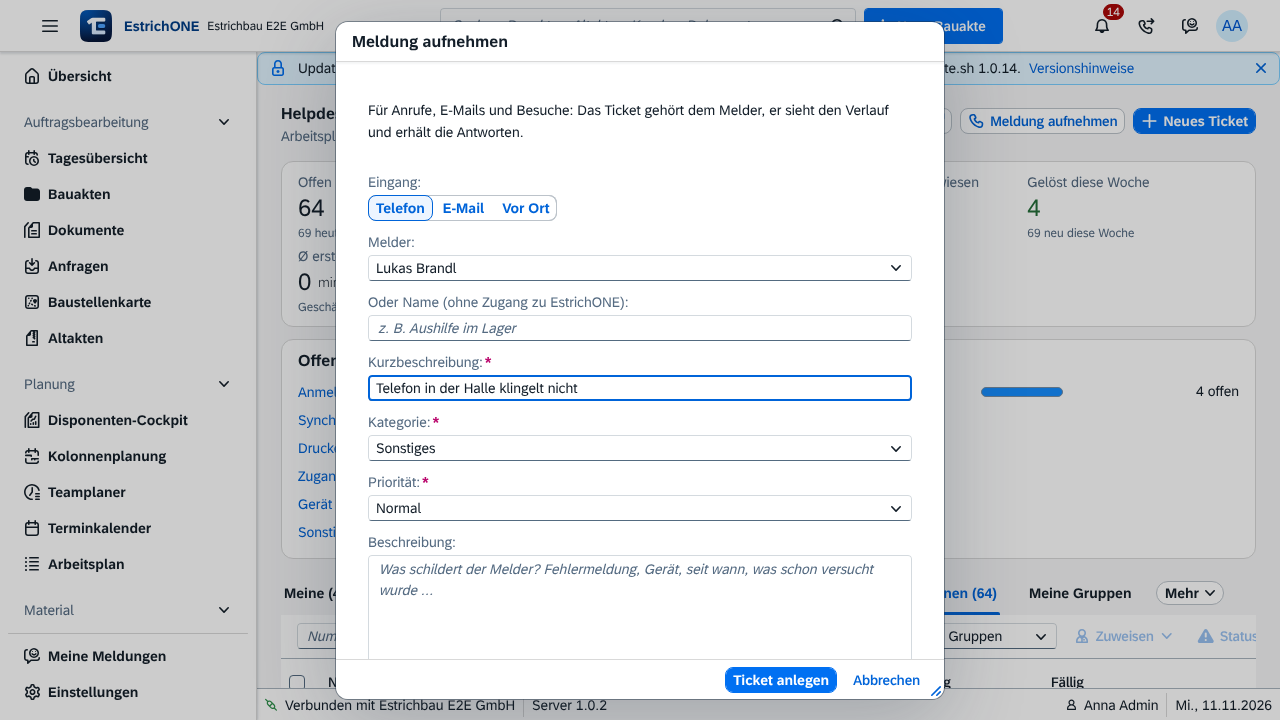
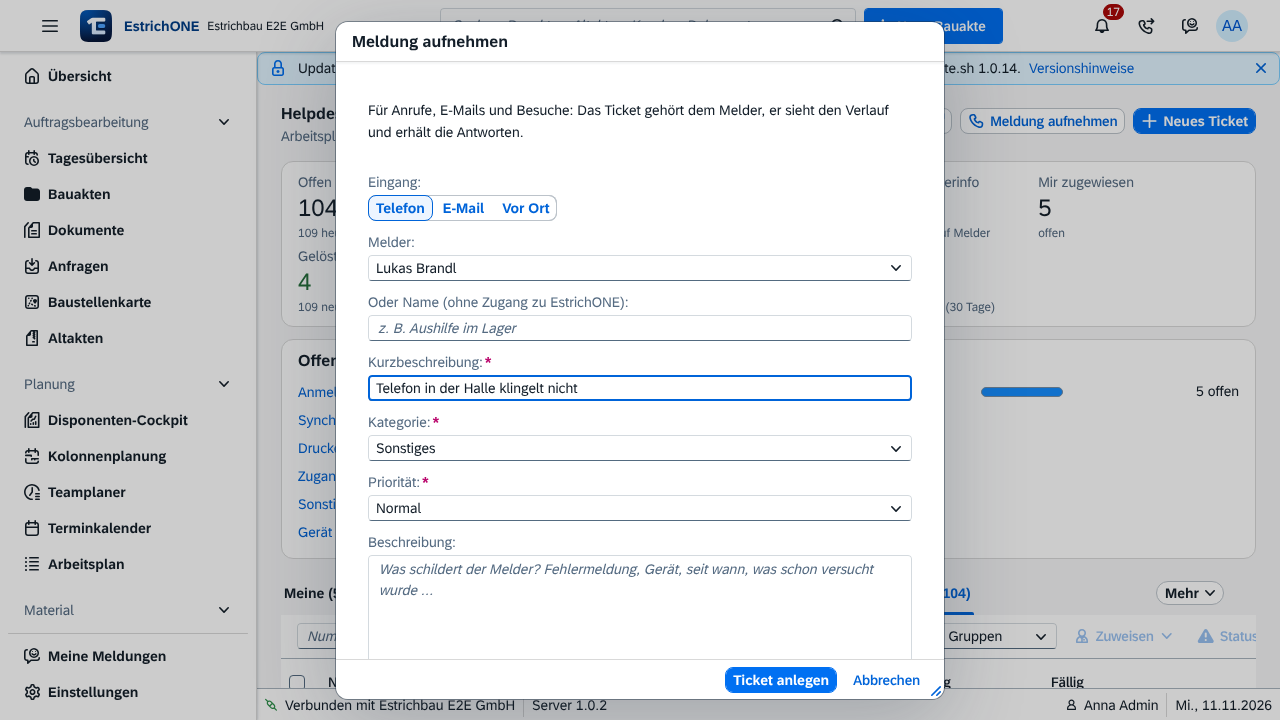
Helpdesk im Web: Reiter des Tickets außerhalb des scrollenden Kopfs, „Lösung bis“ nicht doppelt

diff --git a/web/webapp/controller/admin/Helpdesk.controller.ts b/web/webapp/controller/admin/Helpdesk.controller.ts
@@ -495,8 +495,11 @@ export default class Helpdesk extends BaseController {
 		if (agent && s.responseDueAt) {
 			rows.push({ label: "Erste Antwort", value: firstAnswer ? `erfolgt ${fmt(firstAnswer)}` : `bis ${fmt(s.responseDueAt)}`,
 				state: firstAnswer ? (new Date(firstAnswer) <= new Date(s.responseDueAt) ? "Success" : "Warning") : s.slaState === "overdue" && s.dueKind === "response" ? "Error" : "None", icon: "" });
-			rows.push({ label: "Lösung bis", value: fmt(s.resolutionDueAt), state: s.slaState === "overdue" && s.dueKind === "resolution" ? "Error"
-				: s.slaState === "breached" ? "Warning" : s.slaState === "met" ? "Success" : "None", icon: "" });
+			// „Lösung bis“ steht nur hier, wenn die Ampel im Kopf schon die erste Antwort zeigt (sonst doppelt).
+			if (s.dueKind === "response" || s.slaState === "met" || s.slaState === "breached") {
+				rows.push({ label: "Lösung bis", value: fmt(s.resolutionDueAt), state: s.slaState === "overdue" && s.dueKind === "resolution" ? "Error"
+					: s.slaState === "breached" ? "Warning" : s.slaState === "met" ? "Success" : "None", icon: "" });
+			}
 		}
 		if (t.deviceName) rows.push({ label: "Gerät", value: t.deviceName, state: "None", icon: "" });
 		if (t.rating) rows.push({ label: "Bewertung", value: `${"★".repeat(t.rating)}${"☆".repeat(5 - t.rating)}`, state: t.rating >= 4 ? "Success" : t.rating <= 2 ? "Error" : "None", icon: "" });

diff --git a/web/webapp/css/style.css b/web/webapp/css/style.css
@@ -1236,3 +1236,4 @@ html[data-eo-theme^="sap_fiori_3"] .sapMBtnIcon::before { -webkit-text-stroke: 0
 .eoHdSetTabs .sapMITBContent { padding: 1rem 0 0; }
 .eoHdHolidayList .sapMObjStatus { min-width: 12rem; }
 .eoHdSendButtons { gap: 0.5rem; justify-content: flex-end; min-width: 0; }
+.eoHdDetail > .eoHdTabs.sapMITH { flex: none; padding: 0 1.5rem; margin: 0; background: var(--sapGroup_ContentBackground); border-bottom: 1px solid var(--sapGroup_ContentBorderColor); }
